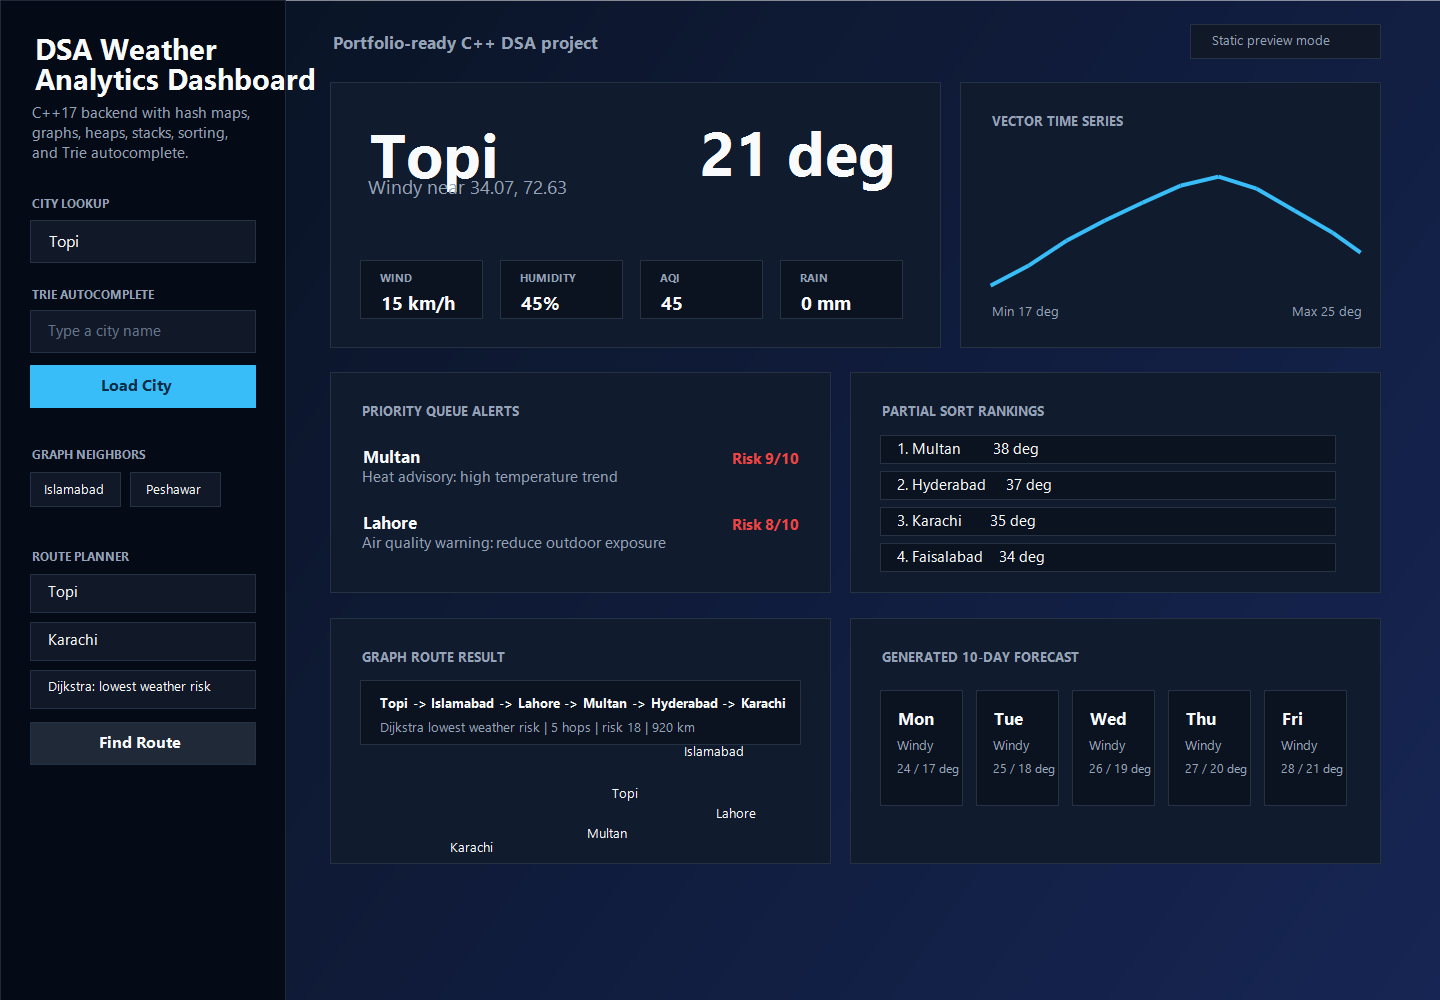
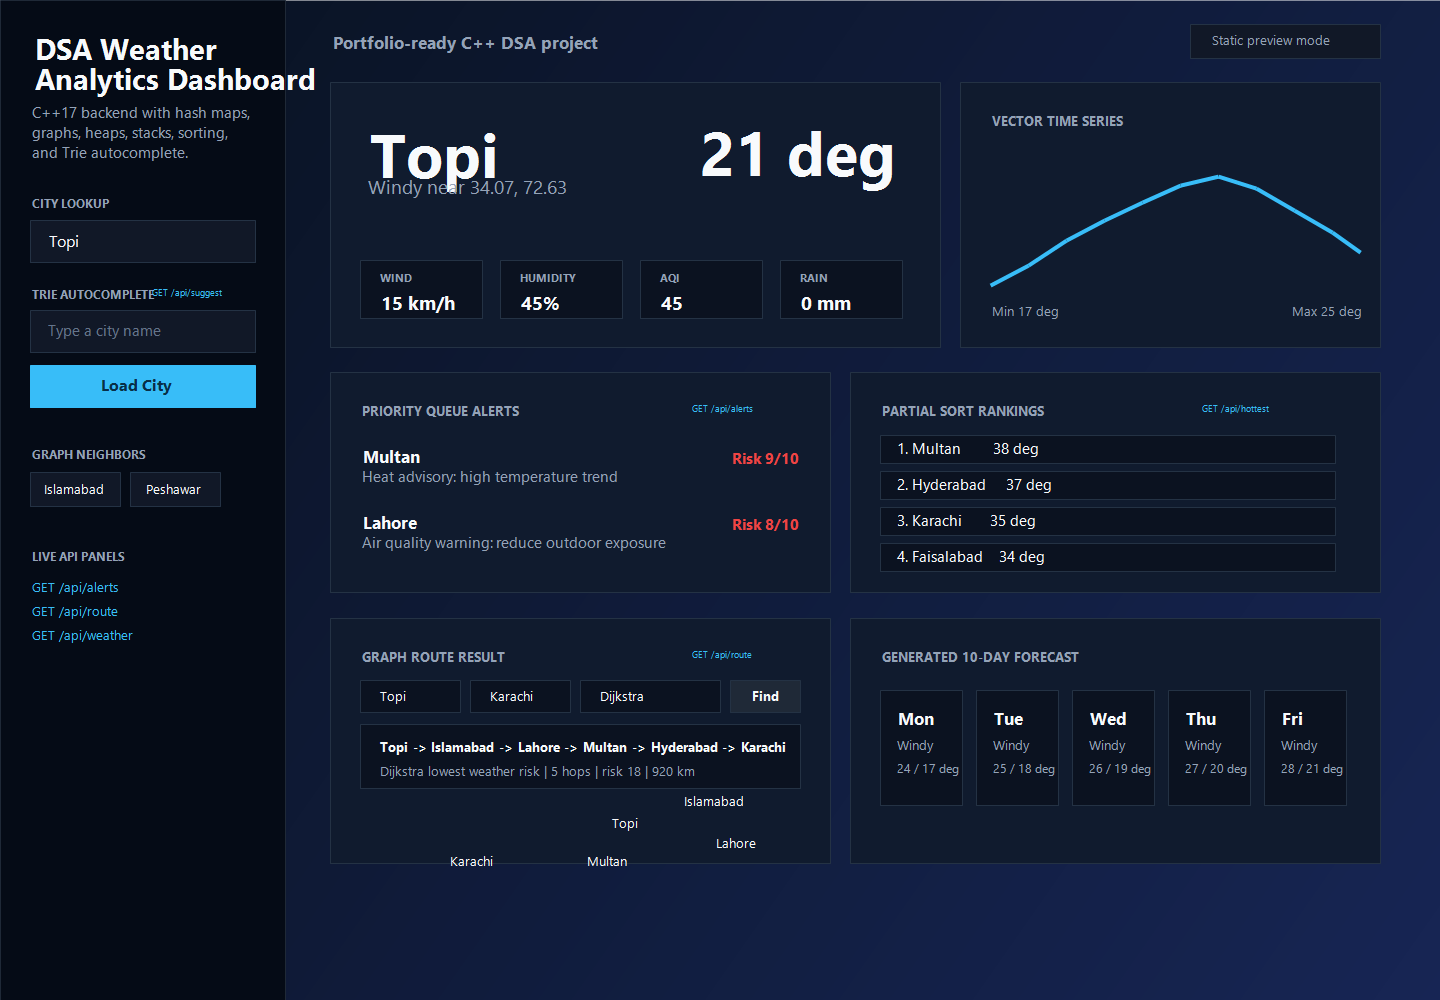
Integrate API endpoints in the UI

diff --git a/public/index.html b/public/index.html
@@ -78,6 +78,17 @@
             text-transform: uppercase;
         }
 
+        .endpoint {
+            border: 1px solid rgba(56, 189, 248, 0.35);
+            border-radius: 999px;
+            padding: 5px 8px;
+            color: var(--accent);
+            background: rgba(56, 189, 248, 0.08);
+            font-family: Consolas, monospace;
+            font-size: 0.72rem;
+            white-space: nowrap;
+        }
+
         .input, .select {
             width: 100%;
             border: 1px solid var(--line);
@@ -113,6 +124,11 @@
         .route-form {
             display: grid;
             gap: 10px;
+        }
+
+        .route-form.inline {
+            grid-template-columns: repeat(4, minmax(0, 1fr));
+            align-items: end;
         }
 
         .chip-list {
@@ -408,6 +424,7 @@
             .sidebar { position: static; height: auto; }
             .hero, .grid { grid-template-columns: 1fr; }
             .meta-grid, .forecast-grid { grid-template-columns: repeat(2, 1fr); }
+            .route-form.inline { grid-template-columns: 1fr; }
         }
 
         @media (max-width: 560px) {
@@ -429,24 +446,13 @@
             <label class="label" for="city-select">City Lookup</label>
             <select id="city-select" class="select"></select>
 
-            <label class="label" for="city-search">Trie Autocomplete</label>
+            <label class="label" for="city-search">Trie Autocomplete <span class="endpoint">GET /api/suggest</span></label>
             <input id="city-search" class="input" list="suggestions" placeholder="Type a city name">
             <datalist id="suggestions"></datalist>
             <button class="button" style="margin-top:10px" id="search-btn">Load City</button>
 
             <label class="label">Graph Neighbors</label>
             <div id="neighbor-list" class="chip-list"></div>
-
-            <label class="label">Route Planner</label>
-            <div class="route-form">
-                <select id="from-select" class="select"></select>
-                <select id="to-select" class="select"></select>
-                <select id="route-mode" class="select">
-                    <option value="safe">Dijkstra: lowest weather risk</option>
-                    <option value="bfs">BFS: fewest route hops</option>
-                </select>
-                <button class="button secondary" id="route-btn">Find Route</button>
-            </div>
         </aside>
 
         <main class="main">
@@ -493,6 +499,7 @@
                 <div class="panel">
                     <div class="panel-head">
                         <h3 class="panel-title">Priority Queue Alerts</h3>
+                        <span class="endpoint">GET /api/alerts</span>
                     </div>
                     <div class="list" id="alerts"></div>
                 </div>
@@ -500,6 +507,7 @@
                 <div class="panel">
                     <div class="panel-head">
                         <h3 class="panel-title">Partial Sort Rankings</h3>
+                        <span class="endpoint">GET /api/hottest</span>
                     </div>
                     <div class="list" id="rankings"></div>
                 </div>
@@ -507,8 +515,18 @@
                 <div class="panel">
                     <div class="panel-head">
                         <h3 class="panel-title">Graph Route Result</h3>
+                        <span class="endpoint">GET /api/route</span>
                     </div>
                     <div class="route-map">
+                        <div class="route-form inline">
+                            <select id="from-select" class="select" aria-label="Route starting city"></select>
+                            <select id="to-select" class="select" aria-label="Route destination city"></select>
+                            <select id="route-mode" class="select" aria-label="Route algorithm">
+                                <option value="safe">Dijkstra: lowest weather risk</option>
+                                <option value="bfs">BFS: fewest route hops</option>
+                            </select>
+                            <button class="button secondary" id="route-btn">Find Route</button>
+                        </div>
                         <div class="route-result" id="route-result">Choose two cities to compare BFS and Dijkstra route behavior.</div>
                         <div class="node-board" id="node-board"></div>
                     </div>
@@ -517,6 +535,7 @@
                 <div class="panel">
                     <div class="panel-head">
                         <h3 class="panel-title">Adjacency List</h3>
+                        <span class="endpoint">GET /api/weather</span>
                     </div>
                     <div class="list" id="adjacency"></div>
                 </div>
@@ -638,6 +657,7 @@
             await renderAlerts();
             await renderRankings();
             drawNodeBoard();
+            await findRoute();
         }
 
         function fillCitySelects(names) {